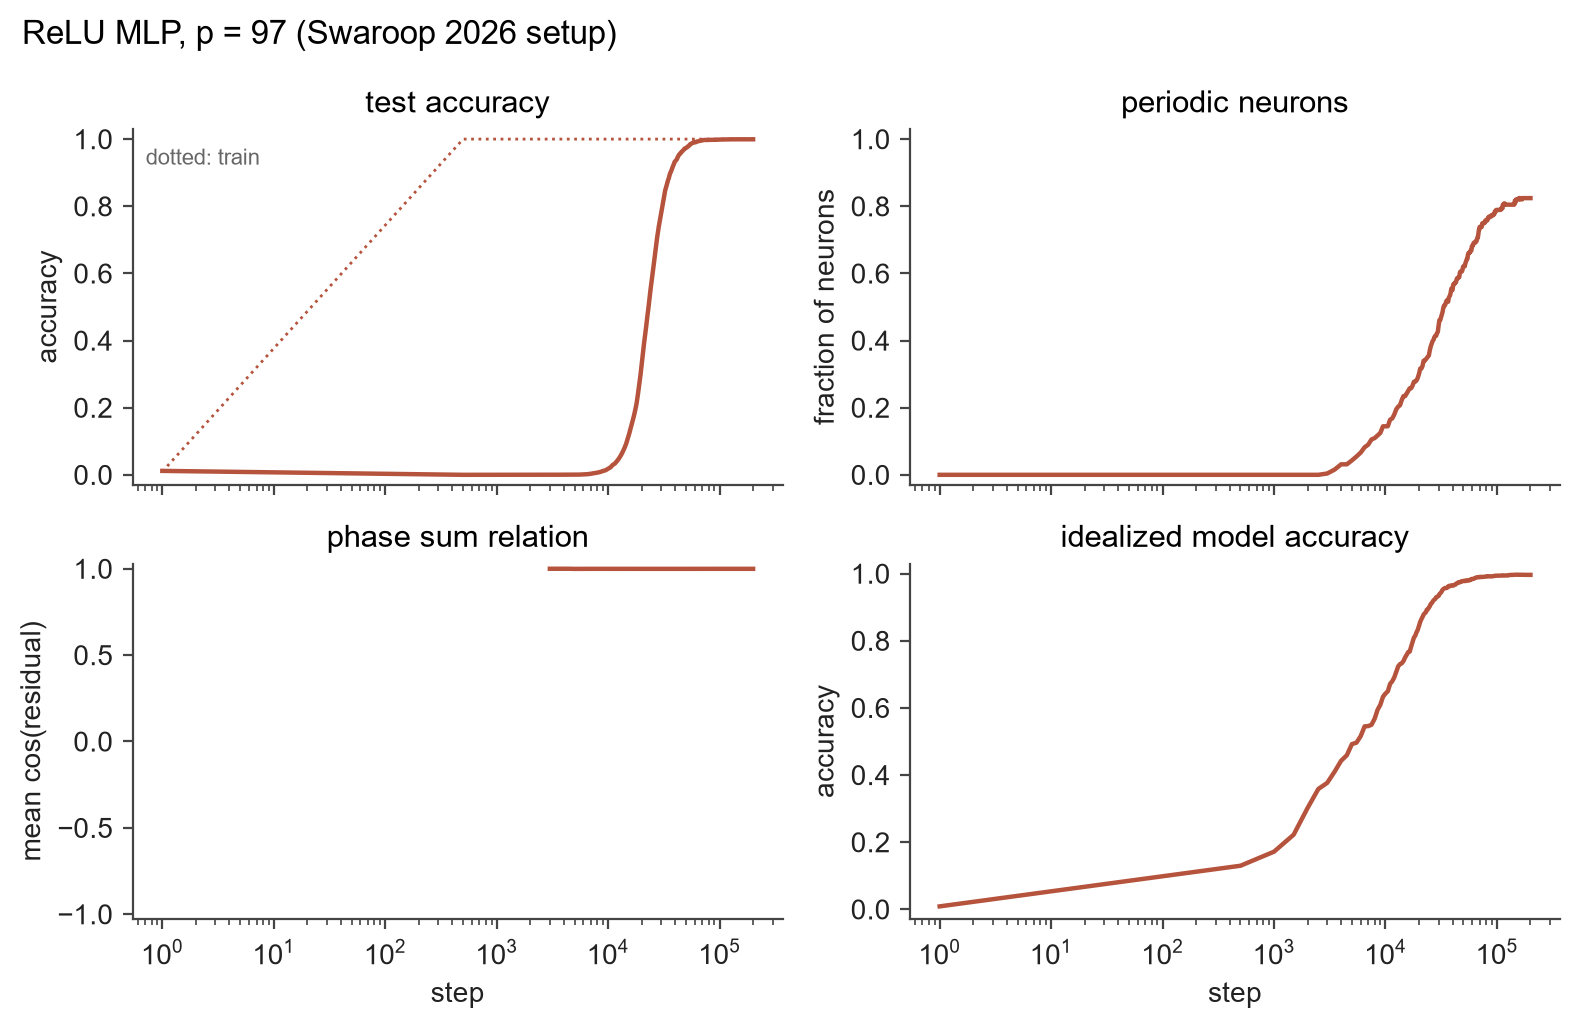
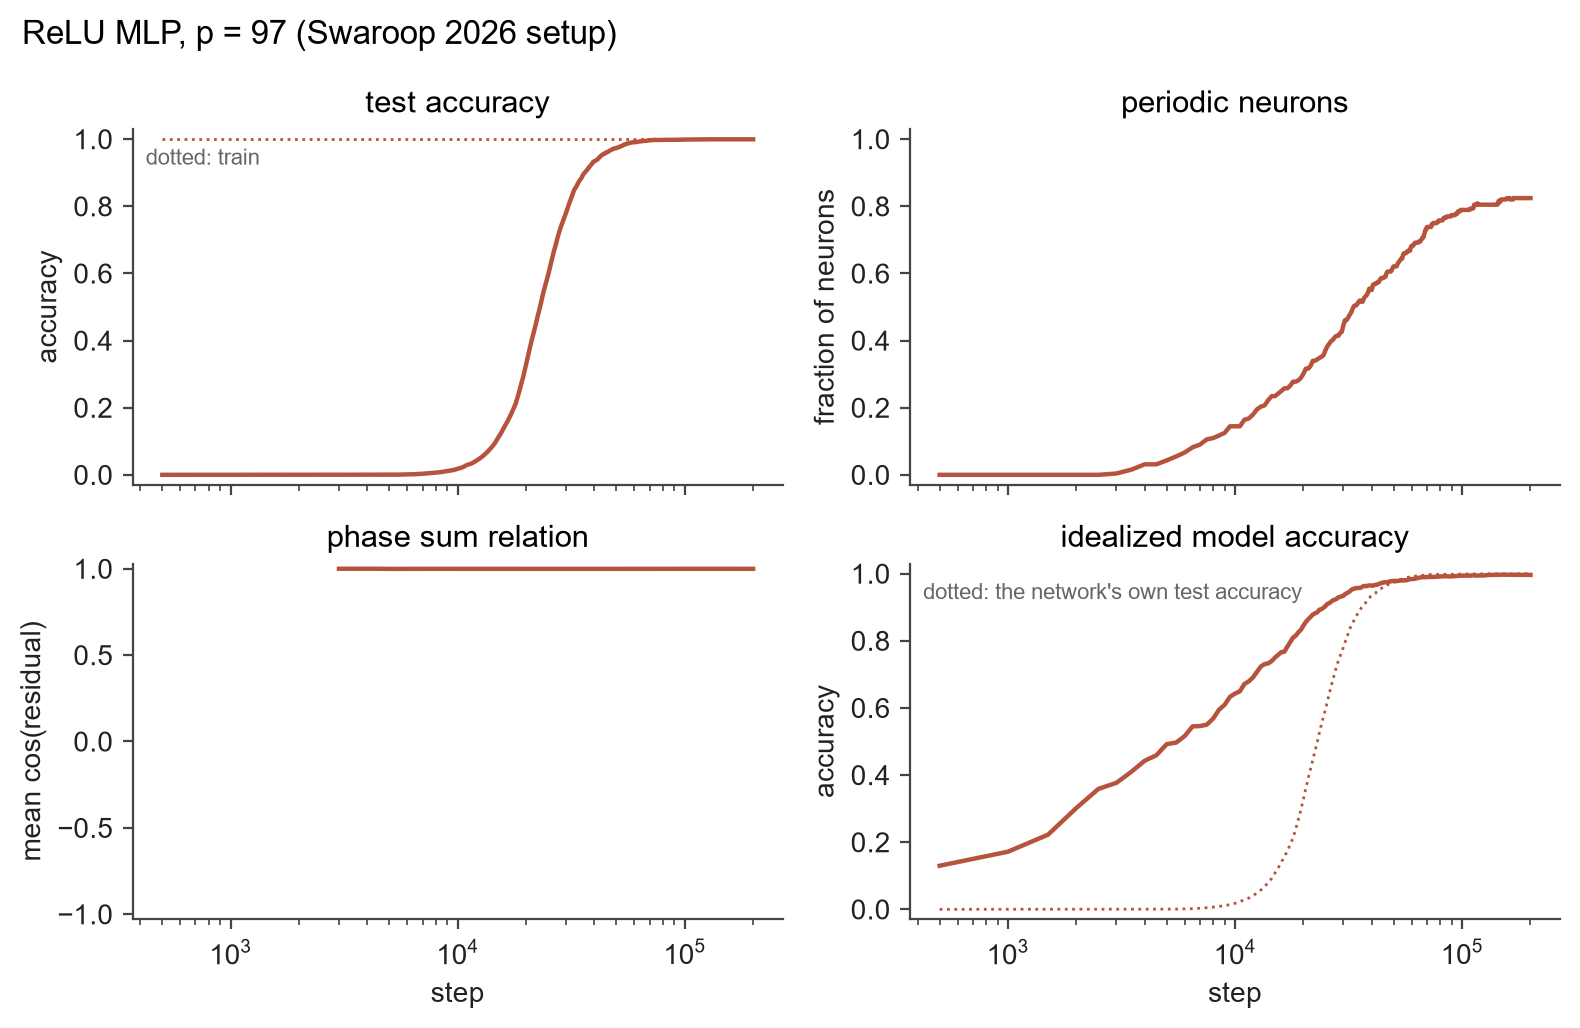
write up the Fourier reproduction and the transformer extension

diff --git a/experiments/grokking_fourier.py b/experiments/grokking_fourier.py
@@ -87,16 +87,21 @@ PANELS = [
 def plot(curves: dict[str, dict], name: str, title: str):
     use_style()
     fig, axes = plt.subplots(2, 2, figsize=(8, 5.2), sharex=True)
+    first = min(m["step"][m["step"] > 0].min() for m in curves.values())
     for ax, (key, ylabel, panel_title) in zip(axes.flat, PANELS):
         for label, m in curves.items():
-            x = np.maximum(m["step"], 1)
-            ax.plot(x, m[key], label=label)
+            keep = m["step"] >= first
+            x = m["step"][keep]
+            ax.plot(x, m[key][keep], label=label)
             if key == "test_acc":
-                ax.plot(x, m["train_acc"], color=ax.lines[-1].get_color(), ls=":", lw=1)
+                ax.plot(x, m["train_acc"][keep], color=ax.lines[-1].get_color(), ls=":", lw=1)
+            if key == "idealized_acc":
+                ax.plot(x, m["test_acc"][keep], color=ax.lines[-1].get_color(), ls=":", lw=1)
         ax.set(xscale="log", title=panel_title, ylabel=ylabel, ylim=(-0.03, 1.03) if key != "phase_alignment" else (-1.03, 1.03))
     for ax in axes[1]:
         ax.set_xlabel("step")
     axes[0, 0].text(0.02, 0.9, "dotted: train", transform=axes[0, 0].transAxes, fontsize=8, color="0.4")
+    axes[1, 1].text(0.02, 0.9, "dotted: the network's own test accuracy", transform=axes[1, 1].transAxes, fontsize=8, color="0.4")
     if len(curves) > 1:
         axes[0, 1].legend(loc="lower right")
     fig.suptitle(title, x=0.02, ha="left")

diff --git a/README.md b/README.md
@@ -51,6 +51,58 @@ uv run python -m carrybit.train configs/modular_add.yaml
 uv run python experiments/grokking_curve.py
 ```
 
+### Grokking sharpens structure that is already there
+
+Swaroop (2026) argues that grokking on modular addition does not discover the
+Fourier algorithm, it cleans up structure that formed during memorization. The
+measurement: take the DFT of each neuron's input weights for operand a, for
+operand b, and of its map to the logits. Structured neurons use one frequency
+in all three, and their phases obey phase_out = phase_a + phase_b, which is
+what makes the ReLU of two cosines add angles. The strongest test is to rebuild
+an MLP from nothing but those per-neuron frequencies, phases and amplitudes and
+ask how well it adds.
+
+I reproduced this on the paper's setup, a one-hidden-layer ReLU MLP with
+two-hot inputs, p = 97, 30% of pairs, weight decay 1:
+
+![Fourier tracking, MLP](assets/figures/grokking_fourier_mlp.png)
+
+The phase-sum relation holds at 0.999 from the first moment there are enough
+periodic neurons to measure it, around step 3000, and never wavers. The
+idealized model built from the extracted parameters runs far ahead of the
+network's own test accuracy: 55% versus 0.5% at step 7500, 85% versus 33% at
+step 20k. The network takes another 30k steps to catch up with the algorithm
+its own weights already encode. That is the paper's claim, and it reproduces.
+
+Then the same measurement on the one-layer transformer from the first
+section. A transformer neuron has no direct input weights per operand, so I
+use its pre-activation averaged over the other operand as a stand-in, and its
+column of the down-projection pushed through the unembedding as its logit map.
+Three weight decays:
+
+![Fourier tracking, transformer](assets/figures/grokking_fourier_transformer.png)
+
+- **Weight decay 1**: structure appears even earlier than in the MLP. The
+  idealized model is at 82% by step 1000 when the network tests at 34%, and
+  at 96% by step 1500 when the network tests at 54%.
+- **Weight decay 0.1**: grokking takes ten times longer, and the structure
+  tracks that. The idealized model is at 82% at step 5000, network at 32%.
+- **No weight decay**: the network never groks in 40k steps, sitting at 33%
+  test accuracy. Its extracted structure still reaches 81%. The algorithm is
+  latent in a network that never generalizes, which is the paper's noisy-label
+  result reproduced with a different obstacle.
+
+So the mechanism is architecture-independent as far as this test can tell.
+Weight decay controls how fast the network converges onto structure it forms
+anyway, not whether the structure forms.
+
+```
+uv run python -m carrybit.train configs/modular_mlp.yaml
+uv run python -m carrybit.train configs/modular_add.yaml train.weight_decay=0.1 name=modular_add_wd0.1 --run-dir runs/modular_add_wd0.1
+uv run python -m carrybit.train configs/modular_add.yaml train.weight_decay=0 name=modular_add_wd0 --run-dir runs/modular_add_wd0
+uv run python experiments/grokking_fourier.py
+```
+
 ### Length generalization: the ladder
 
 The main experiment. Train on addition with operands of 1 to 20 digits, then
